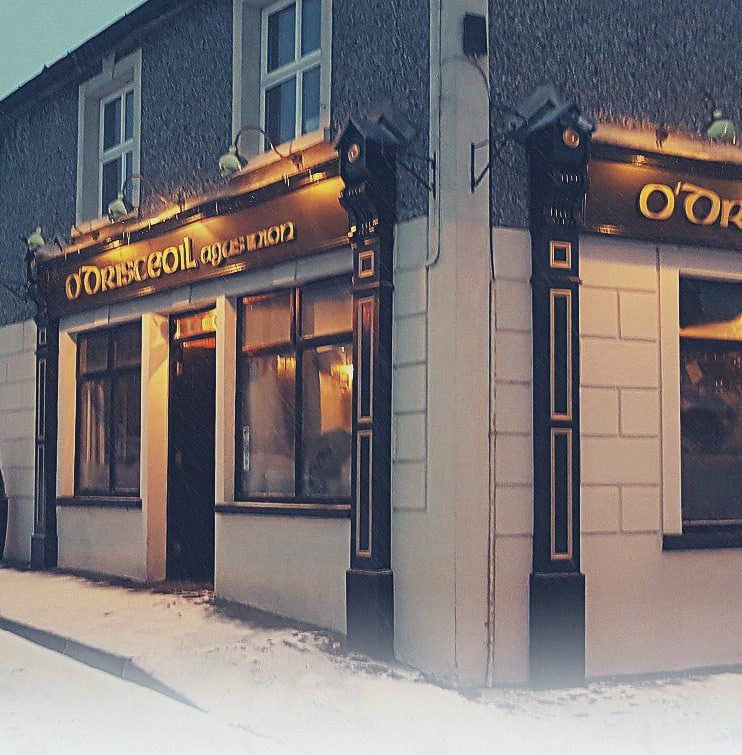
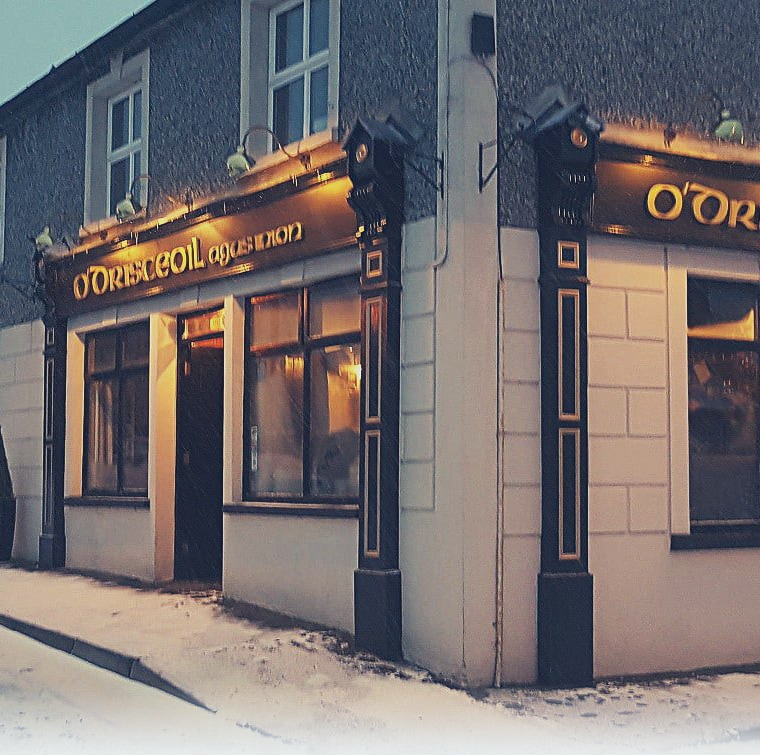
Fixed pub-front image. Added vue-gallery plugin. Setup basic layout of gallery page.

diff --git a/pages/gallery.vue b/pages/gallery.vue
@@ -9,11 +9,85 @@
         </picture>
     </div>
     <div class="container container--style p-10 md:p-12">
-        <div class="row">
-            <div class="text-center">
+        <div class="row flex flex-wrap">
+            <div class="text-center w-full mb-8 lg:mb-16">
                 <h2 class="text-underline">Gallery</h2>
+                <br>
+                <p class=" max-w-md m-auto">Lorem ipsum dolor, sit amet consectetur adipisicing elit. Corporis ea rem unde nulla alias magni asperiores, nemo mollitia nostrum! Necessitatibus!</p>
+            </div>
+            <gallery :images="images" :index="index" @close="index = null"></gallery>
+
+            <!-- Gallery options -->
+            <div class="flex flex-wrap align-top w-full md:w-1/4">
+                <div class="text-grey-dark">
+                    <div class="type w-full">
+                        <p class="font-bold text-xs text-orange uppercase">View mode</p>
+                        <p class="m-0">Full images</p>
+                        <p class="m-0">Thumbnails</p>
+                    </div>
+                    <br>
+                    <div class="type w-full">
+                        <p class="font-bold text-xs text-orange uppercase">Type</p>
+                        <p class="m-0">Popular</p>
+                        <p class="m-0">Recent</p>
+                        <p class="m-0">Videos</p>
+                    </div>
+                    <br>
+                    <div class="type w-full">
+                        <p class="font-bold text-xs text-orange uppercase">Tags</p>
+                        <p class="m-0">BBQ</p>
+                        <p class="m-0">Funny</p>
+                        <p class="m-0">Music</p>
+                        <p class="m-0">Weddings</p>
+                    </div>
+                </div>
+            </div>
+
+            <div class="flex flex-wrap justify-between w-full md:w-3/4">
+                <div
+                class="image mb-6 shadow"
+                v-for="(image, imageIndex) in images"
+                :key="imageIndex"
+                @click="index = imageIndex"
+                :style="{ backgroundImage: 'url(' + image + ')' }"
+                ><span>{{image.title}}</span></div>
             </div>
         </div>
     </div>
   </div>
 </template>
+<script>
+import galleryImages from "~/assets/js/gallery-images.js";
+export default {
+    data () {
+      return {
+        images: galleryImages,
+        index: null
+      };
+    }
+}
+</script>
+<style lang="sass">
+.image
+    background-size: cover
+    background-repeat: no-repeat
+    background-position: center center
+    min-height: 150px
+    border: $border
+    width: 100%
+    +tablet
+        width: 47.5%
+    +laptop
+        width: 30%
+
+.blueimp-gallery
+    .title
+        background: black
+    .close
+        margin: 0
+        padding: 20px
+        color: $yellow
+    .slide-content
+        max-width: 80%
+        max-height: 80%
+</style>

diff --git a/assets/js/gallery-images.js b/assets/js/gallery-images.js
@@ -1,0 +1,37 @@
+var galleryImages = [
+	'~/assets/images/gallery/Josie-and-Axels-Wedding-engagement.jpg',
+	'~/assets/images/gallery/the-girls.jpg',
+	'~/assets/images/gallery/the-lounge.jpg',
+	'~/assets/images/gallery/Josie-and-Axels-Wedding-engagement.jpg',
+	'~/assets/images/gallery/the-girls.jpg',
+	'~/assets/images/gallery/the-lounge.jpg',
+	'~/assets/images/gallery/Josie-and-Axels-Wedding-engagement.jpg',
+	'~/assets/images/gallery/the-girls.jpg',
+	'~/assets/images/gallery/the-lounge.jpg',
+	'~/assets/images/gallery/Josie-and-Axels-Wedding-engagement.jpg',
+	'~/assets/images/gallery/the-girls.jpg',
+	'~/assets/images/gallery/the-lounge.jpg',
+	'~/assets/images/gallery/Josie-and-Axels-Wedding-engagement.jpg',
+	'~/assets/images/gallery/the-girls.jpg',
+	'~/assets/images/gallery/the-lounge.jpg',
+	'~/assets/images/gallery/Josie-and-Axels-Wedding-engagement.jpg',
+	'~/assets/images/gallery/the-girls.jpg',
+	'~/assets/images/gallery/the-lounge.jpg',
+	'~/assets/images/gallery/Josie-and-Axels-Wedding-engagement.jpg',
+	'~/assets/images/gallery/the-girls.jpg',
+	'~/assets/images/gallery/the-lounge.jpg',
+	'~/assets/images/gallery/Josie-and-Axels-Wedding-engagement.jpg',
+	'~/assets/images/gallery/the-girls.jpg',
+	'~/assets/images/gallery/the-lounge.jpg',
+	'~/assets/images/gallery/Josie-and-Axels-Wedding-engagement.jpg',
+	'~/assets/images/gallery/the-girls.jpg',
+	'~/assets/images/gallery/the-lounge.jpg',
+	{
+		title: 'Large dummy image',
+		href: 'https://dummyimage.com/1600/ffffff/000000',
+		type: 'image/jpeg',
+		// thumbnail: 'https://example.org/thumbnails/banana.jpg'
+	}
+];
+
+export default galleryImages;

diff --git a/components/MainFooter.vue b/components/MainFooter.vue
@@ -1,7 +1,7 @@
 <template>
     <div class="wrapper">
         <div class="container">
-            <div class="contact-info w-full p-8 sm:p-10 md:p-12 xl:p-16 lg:w-11/20">
+            <div class="contact-info w-full z-10 p-8 sm:p-10 md:p-12 xl:p-16 lg:w-11/20">
                 <h2 class="text-underline">Get in Touch</h2>
                 <div class="flex flex-wrap">
                     <div class="w-full flex flex-wrap md:w-1/2">
@@ -341,7 +341,6 @@ export default {
     background: $white
     border: $border
     box-shadow: $shadow
-    z-index: 1
     position: relative
     h2 
         margin-top: 0

diff --git a/nuxt.config.js b/nuxt.config.js
@@ -43,10 +43,18 @@ module.exports = {
 
 
 	// Plugins
-	plugins: ['~/plugins/core-compontents.js', '~/plugins/vue2-google-maps.js', {
-		src: '~plugins/datepicker.js',
-		ssr: false
-	}],
+	plugins: [
+		'~/plugins/core-compontents.js',
+		'~/plugins/vue2-google-maps.js',
+		{
+			src: '~plugins/datepicker.js',
+			ssr: false
+		},
+		{
+			src: '~/plugins/vue-gallery.js',
+			ssr: false
+		}
+	],
 
 	// Modules
 	modules: [

diff --git a/plugins/vue-gallery.js b/plugins/vue-gallery.js
@@ -1,0 +1,4 @@
+import Vue from 'vue';
+import VueGallery from 'vue-gallery';
+
+Vue.component('gallery', VueGallery)
